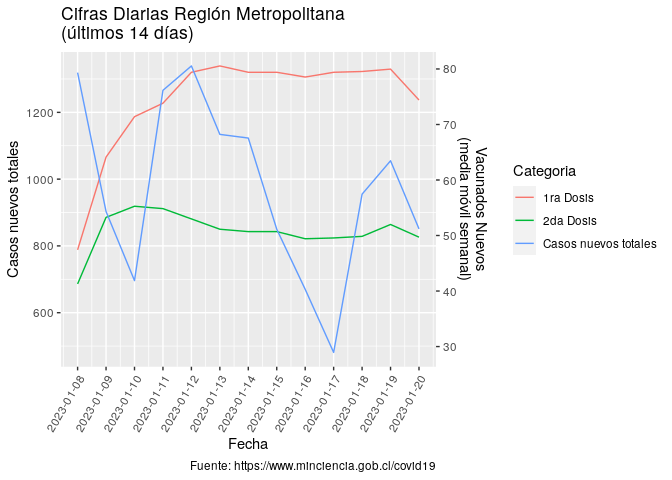
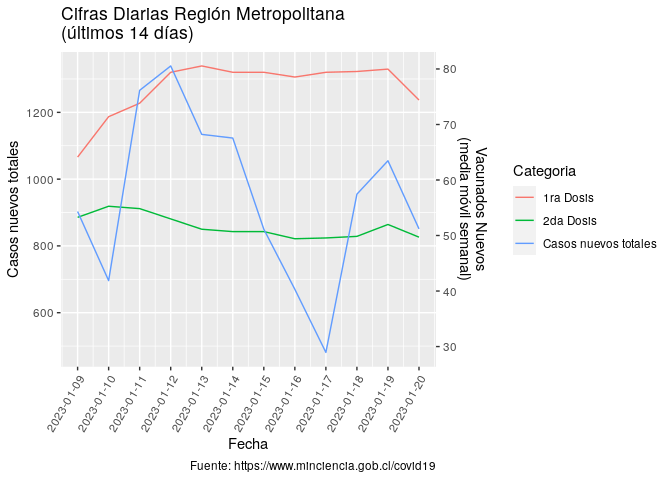
Re-build Rmarkdown files

diff --git a/README.md b/README.md
@@ -3,7 +3,7 @@
 
 Ejemplo de uso de total\_casos de COVID recopilados por el Ministerio de
 Ciencia de Chile <https://www.minciencia.gob.cl/covid19>. Última
-actualización: 2023-01-21
+actualización: 2023-01-22
 
 ## Visualización desde el comienzo de la pandemia
 
